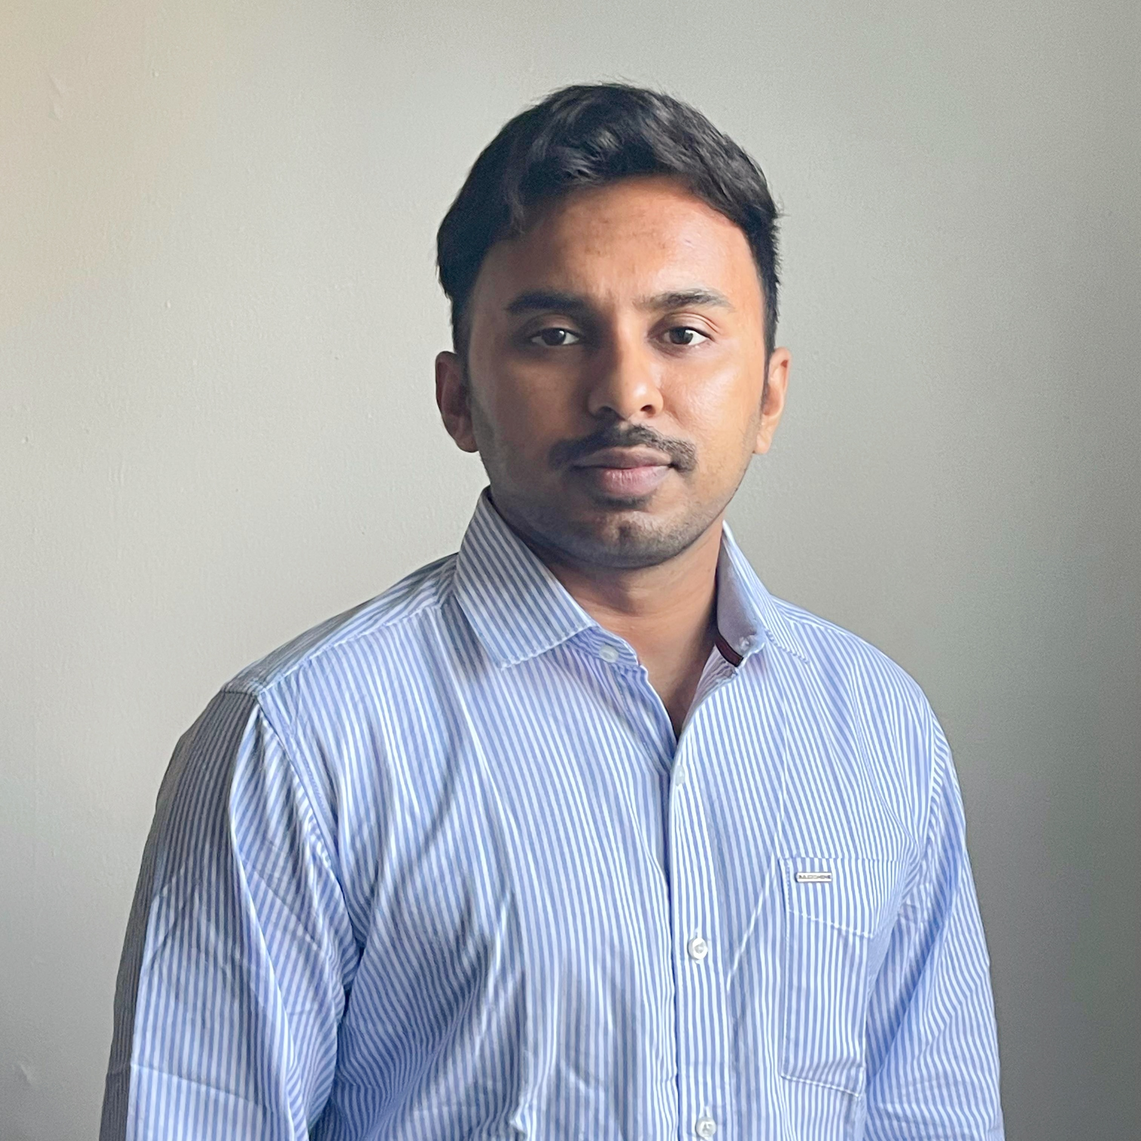
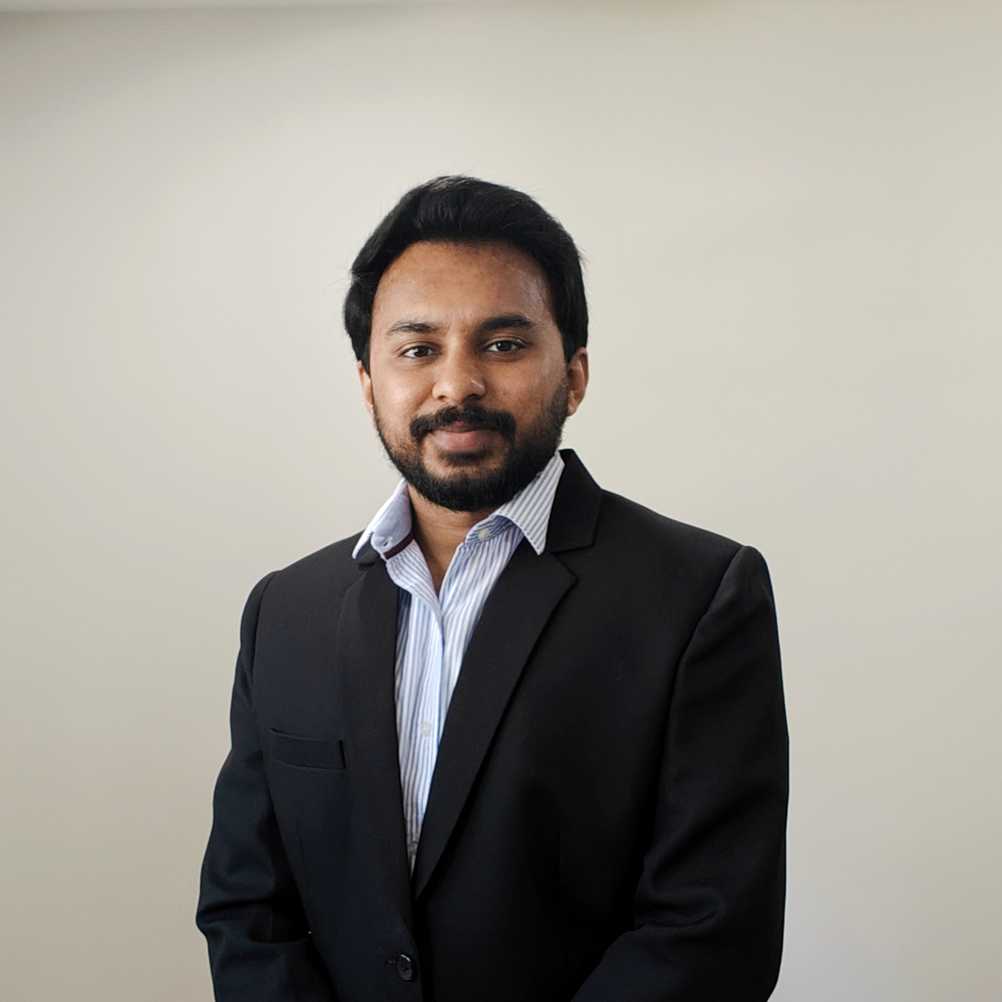
switch headline font to Roboto Serif

diff --git a/src/App.jsx b/src/App.jsx
@@ -1,6 +1,15 @@
 import { useState, useEffect } from "react";
-import { Mail, Linkedin, Github, ExternalLink, X, GraduationCap, Award, Play, Youtube, FileText, MapPin, ArrowUpRight, MessageCircle } from "lucide-react";
+import { Mail, Linkedin, Github, ExternalLink, X, GraduationCap, Award, Play, Youtube, FileText, MapPin, ArrowUpRight } from "lucide-react";
 import profileImg from "./assets/profile.jpg";
+
+/* Discord logo (lucide has no official Discord icon) */
+function DiscordIcon({ size = 19 }) {
+  return (
+    <svg width={size} height={size} viewBox="0 0 24 24" fill="currentColor" aria-hidden="true">
+      <path d="M20.317 4.369a19.79 19.79 0 0 0-4.885-1.515.074.074 0 0 0-.079.037c-.211.375-.445.865-.608 1.25a18.27 18.27 0 0 0-5.487 0 12.64 12.64 0 0 0-.617-1.25.077.077 0 0 0-.079-.037A19.736 19.736 0 0 0 3.677 4.37a.07.07 0 0 0-.032.027C.533 9.046-.32 13.58.099 18.057a.082.082 0 0 0 .031.057 19.9 19.9 0 0 0 5.993 3.03.078.078 0 0 0 .084-.028c.462-.63.874-1.295 1.226-1.994a.076.076 0 0 0-.041-.106 13.1 13.1 0 0 1-1.872-.892.077.077 0 0 1-.008-.128c.126-.094.252-.192.372-.291a.074.074 0 0 1 .077-.01c3.928 1.793 8.18 1.793 12.062 0a.074.074 0 0 1 .078.009c.12.099.246.198.373.292a.077.077 0 0 1-.006.127 12.3 12.3 0 0 1-1.873.891.077.077 0 0 0-.041.107c.36.698.772 1.362 1.225 1.993a.076.076 0 0 0 .084.028 19.84 19.84 0 0 0 6.002-3.03.077.077 0 0 0 .032-.056c.5-5.177-.838-9.674-3.549-13.66a.061.061 0 0 0-.031-.028zM8.02 15.331c-1.182 0-2.157-1.085-2.157-2.419 0-1.333.956-2.418 2.157-2.418 1.21 0 2.176 1.094 2.157 2.418 0 1.334-.956 2.419-2.157 2.419zm7.975 0c-1.183 0-2.157-1.085-2.157-2.419 0-1.333.955-2.418 2.157-2.418 1.21 0 2.176 1.094 2.157 2.418 0 1.334-.946 2.419-2.157 2.419z" />
+    </svg>
+  );
+}
 
 /* ═══════════════════════════════════════════════════════════
    HOOKS & SMALL COMPONENTS
@@ -70,7 +79,7 @@ const PROJECTS = [
     title: "TurtleBot4 Real-Time Perception Pipeline",
     blurb: "A native ROS 2 vision-control layer running four perception tasks at once on-robot — scanline path following, SIFT/FLANN logo detection, optical-flow collision stops, and Hough horizon tracking — all in classical CV to stay inside the control loop.",
     stack: ["ROS 2", "TurtleBot4", "SIFT Matching", "Optical Flow", "OpenCV"],
-    category: "Autonomous Systems",
+    category: "Perception & Vision",
     featured: true,
     metric: "4 tasks · on-robot",
     github: "https://github.com/ravivkrahul/turtlebot4-perception-pipeline",
@@ -159,7 +168,7 @@ const PROJECTS = [
     title: "ResNet18 Arrow Direction Regression",
     blurb: "A navigation network that moved from classical thresholding to deep learning — a ResNet18 transfer-learning model regressing continuous steering angles, deployed for live inference on Raspberry Pi hardware.",
     stack: ["PyTorch", "Transfer Learning", "ResNet18", "Raspberry Pi"],
-    category: "Autonomous Systems",
+    category: "Perception & Vision",
     github: "https://github.com/ravivkrahul/ResNet18-Arrow-Direction-Regression",
   },
   {
@@ -167,6 +176,99 @@ const PROJECTS = [
     blurb: "An Arduino Mega station that reads soil, temperature, and light, actuates solenoid valves on thresholds, and streams live telemetry to ThingSpeak over ESP8266 — a self-running irrigation controller.",
     stack: ["Arduino", "ESP8266", "IoT", "ThingSpeak"],
     category: "Classical & Industrial Controls",
+  },
+
+  /* ── KRIBHCO INDUSTRIAL (2018–2025) ── */
+  {
+    title: "Air Dryer Unit — Control Panel Redesign & Commissioning",
+    blurb: "Redesigned and built an in-house control panel that replaced a worn bistable relay and mechanical timer with PLC ladder logic — preserving proven operator behavior while removing the mechanical failure points. Executed a single-day cutover inside the 8-hour maintenance window with zero production loss.",
+    stack: ["Siemens PLC", "TIA Portal", "Ladder Logic", "Panel Design", "Commissioning"],
+    category: "Industrial Automation",
+    metric: "Single-day cutover",
+    details: {
+      scope: "Complete redesign and in-house construction of a control panel to eliminate mechanical failure points in the air dryer regeneration system.",
+      sections: [
+        { h: "Challenge", b: "The original panel relied on two degraded mechanical components. A bistable relay served as the mode selector between Dryer A ↔ Dryer B regeneration and inline bypass — its worn cam mechanism caused poor contact, elevated resistance, and erratic false mode transitions. A mechanical timer controlled the 5-hour heating and 3-hour cooling regeneration cycles; worn gears caused timing drift and unpredictable execution. The deteriorated panel made preventive maintenance risky and prompted a full replacement." },
+        { h: "Solution", b: "Designed and built a new panel in-house that preserved the proven relay-based control logic (and operator familiarity), eliminated the bistable relay and timer by implementing their functionality in an integrated PLC, and consolidated all logic into a single maintainable platform." },
+        { h: "Execution", b: "Documented the exact relay switching sequence and timer cycle with operators and maintenance staff; redrew complete electrical documentation in Microsoft Visio. Designed the layout and supervised in-house construction, integrating temperature sensors, flow sensors, control valves, and solenoid valves with organized terminal blocks. Verified the new logic operated identically to the original before commissioning, coordinating cutover with Mechanical, Electrical, Production, and Civil teams." },
+        { h: "Commissioning & Cutover", b: "Executed a single-day cutover: shut down the compressor, de-energized and disconnected the old panel (fully documented), rewired to the new panel, powered up, tested, and handed over — all within the scheduled 8-hour maintenance window." },
+        { h: "Outcome", b: "Transitioned from legacy mechanical control to modern PLC logic with no production loss, eliminated failures from worn relay contacts and timer degradation, and delivered a maintainable system operators could run reliably." },
+      ],
+      stack: "Siemens PLC · TIA Portal (ladder logic) · Microsoft Visio · Temperature/flow sensors · Control & solenoid valves",
+    },
+  },
+  {
+    title: "Pump Torque-Converter Speed Control Modernization",
+    blurb: "Consolidated a legacy two-stage cascade controller into the Honeywell C300 DCS, replaced an obsolete speed sensor with a Pepperl+Fuchs unit on a custom-fabricated mount, and performed online PID retuning of both level and speed loops during shutdown at near-normal operating conditions.",
+    stack: ["Honeywell DCS", "Cascade PID", "Pepperl+Fuchs", "Online Tuning"],
+    category: "Industrial Automation",
+    metric: "Dual-loop consolidation",
+    details: {
+      scope: "Upgrade a 30-year-old pump control system to consolidate dual cascade controllers into a single DCS platform with modern sensor technology.",
+      sections: [
+        { h: "Challenge", b: "The system used a two-stage cascade design: a level controller in the DCS output a setpoint to a local speed controller in the pump's original panel. No spare parts existed for the obsolete local controller, and the worn speed sensor had no available equivalent — failure of either meant production stoppage with no repair path." },
+        { h: "Solution", b: "Consolidated both cascade controllers into the DCS to eliminate dependence on the obsolete local panel, replaced the speed sensor with a modern Pepperl+Fuchs unit, redesigned the sensor mounting with the fabrication team, and retraced and reconfigured all wiring for the new architecture." },
+        { h: "Execution", b: "Selected the Pepperl+Fuchs sensor and built a custom mounting bracket integrating it with the existing pump structure. Developed the secondary speed-controller logic inside the Honeywell C300 DCS, configuring level (primary) → speed (secondary) cascade PID modules while preserving all legacy safety interlocks and pre-start conditions. Installed new multicore cable from the DCS to the legacy panel and updated all terminal routing." },
+        { h: "Commissioning & PID Tuning", b: "Brought the system online with production during annual shutdown, held process conditions near normal operating parameters, and performed online PID retuning of both level and speed loops under realistic dynamics — validating stability across the operating range." },
+        { h: "Outcome", b: "Eliminated single points of failure from obsolete hardware, created a sustainable vendor-standard solution, and tuned the system to run reliably at actual operating conditions with no permanent downtime." },
+      ],
+      stack: "Honeywell Experion PKS C300 DCS · Pepperl+Fuchs speed sensor · Cascade PID loops · Fabrication support",
+    },
+  },
+  {
+    title: "DCS & Safety System Management — 4000+ Loops",
+    blurb: "Ran day-to-day operations of a Honeywell Experion PKS C300 DCS and Safety Manager ESD supporting 4000+ control loops: RAID5 storage administration, backup and disaster-recovery validation, safety-interlock verification, one-to-one station redundancy, and plant-trip root-cause analysis for operators.",
+    stack: ["Honeywell C300", "Safety Manager ESD", "RAID5", "Trip Analysis"],
+    category: "Industrial Automation",
+    metric: "99.5%+ availability",
+    details: {
+      scope: "Manage and maintain Honeywell Experion PKS C300 DCS infrastructure and the Safety Manager ESD system supporting 4000+ control loops across plant operations.",
+      sections: [
+        { h: "System Architecture", b: "A primary C300 DCS server on RAID5 storage drove 4000+ process loops across fertilizer units, air handling, compressor control, pump speed, temperature/pressure, and level systems. Multiple operator and engineering stations connected over the plant network, with spare station/server configurations maintained for one-to-one replacement, plus a Safety Manager ESD for safety-critical interlocks." },
+        { h: "DCS & RAID5 Administration", b: "Continuously monitored server performance and availability, managed user access across stations, ran routine backups to RAID5, validated data integrity and disaster recovery, and monitored disk-array health — performing drive replacements as needed to maintain redundancy." },
+        { h: "Safety Manager (ESD)", b: "Verified Emergency Shut Down function and interlock operation, monitored safety diagnostics for faults or degradation, ensured safety-critical loops maintained proper response times, and ran periodic safety-system tests and validation." },
+        { h: "Trip Analysis & Troubleshooting", b: "On plant trips, checked interlocks and identified root causes — distinguishing safety-system function, process upset, or instrumentation anomaly — and gave operators clear root-cause analysis to speed recovery. Resolved DCS server, station-connectivity, and loop-performance issues with minimal production impact." },
+        { h: "Outcome", b: "Maintained 99.5%+ DCS availability across 4000+ loops, kept the ESD system operational, protected data integrity via RAID5 and backups, and supported continuous plant operation without critical outages." },
+      ],
+      stack: "Honeywell Experion PKS C300 DCS · Safety Manager ESD · RAID5 storage · Distributed client-server architecture · 4000+ loops",
+    },
+  },
+  {
+    title: "Cracker Unit — 72-Channel Temperature System Upgrade",
+    blurb: "Replaced an aged 72-channel temperature scanner with modern instrumentation: 72 new K-type thermocouples in Inconel thermowells, a signal-conditioning junction box, full rewiring with shielding, and per-channel simulation plus high/low alarm testing across all 72 measurement points.",
+    stack: ["Thermocouples", "Inconel Thermowells", "Signal Conditioning", "Alarm Testing"],
+    category: "Industrial Automation",
+    metric: "72 channels verified",
+    details: {
+      scope: "Replace an aged 72-channel temperature scanner and upgrade the temperature measurement system across the cracker unit with modern instrumentation.",
+      sections: [
+        { h: "Challenge", b: "The original 72-channel scanner had aged and become unreliable. Multiple K-type thermocouple elements needed replacement, temperature measurement was critical to operation and product quality, and the signal-conditioning and junction-box infrastructure required an upgrade — with all 72 channels needing reconfiguration and alarm testing." },
+        { h: "Mechanical Coordination", b: "Coordinated with the mechanical team to fabricate small thermowells on the pipeline, sized to the new element dimensions and validated for proper thermal contact and sensor protection." },
+        { h: "Scanner & Element Replacement", b: "Procured a modern 72-channel scanner, 72 high-temperature K-type thermocouples, Inconel thermowells for durability, and a junction box with signal conditioning and reference-junction compensation. Installed all hardware and connected each element to its scanner channel." },
+        { h: "Rewiring & Configuration", b: "Performed complete rewiring of all 72 channels with proper shielding and grounding, configuring each channel's sensor type, temperature range, alarm setpoints, and data-logging parameters — with clear labeling and documentation." },
+        { h: "Simulation & Alarm Testing", b: "Ran temperature simulation on each of the 72 channels, verified scanner response across the operating range, tested every high/low alarm, confirmed setpoints triggered at design temperatures, and validated data logging — documenting results for all channels." },
+        { h: "Outcome", b: "Restored reliable, accurate temperature measurement across cracker operations with improved alarm functionality and full visibility into the temperature profile — all 72 channels verified operational." },
+      ],
+      stack: "72-channel scanner · K-type thermocouples · Inconel thermowells · Signal-conditioning junction box · Shielded wiring · Simulation & alarm testing",
+    },
+  },
+  {
+    title: "Compressor Panel — Isolator Replacement & Loop Verification",
+    blurb: "Documented and replaced aged AI/AO/DI/DO isolators in a compressor control panel with matched Pepperl+Fuchs equivalents during annual shutdown, then verified signal integrity end-to-end across all 60 control loops from field transmitter through panel to final element.",
+    stack: ["Pepperl+Fuchs Isolators", "Loop Verification", "24VDC", "Shutdown Execution"],
+    category: "Industrial Automation",
+    metric: "60 loops verified",
+    details: {
+      scope: "Replace aged isolators in a compressor control panel with modern equivalents and verify integrity across all 60 dependent control loops.",
+      sections: [
+        { h: "Challenge", b: "The panel's isolators had aged and were no longer reliable or readily available as spares. Multiple types (AI, AO, DI, DO) supported 60 control loops critical to compressor operation, and replacement had to happen during annual shutdown to minimize production impact." },
+        { h: "Documentation & Procurement", b: "Conducted a full documentation review of every installed isolator, capturing electrical specs and functionality, and built a matched replacement list from the Pepperl+Fuchs catalog — including single-input/double-output configurations — selected for drop-in compatibility." },
+        { h: "Replacement", b: "During shutdown, systematically removed all aged isolators and installed new Pepperl+Fuchs units in identical positions to preserve circuit configuration, verifying proper seating and electrical contact." },
+        { h: "Wiring & Loop Verification", b: "Wired with printed ferrules and terminal lugs for reliable connections, then verified all 60 loops — confirming signal continuity from field transmitters through the panel to control valves, testing each loop for correct transmission and response, and confirming no signal degradation." },
+        { h: "Outcome", b: "Restored reliable signal isolation across all 60 loops, verified complete signal-chain integrity, eliminated isolator-failure risk, and extended panel service life — all within the annual shutdown window with no production impact." },
+      ],
+      stack: "Pepperl+Fuchs isolators (AI/AO/DI/DO) · 24VDC supply · Printed ferrules & terminal lugs · Loop verification procedures",
+    },
   },
 ];
 
@@ -197,7 +299,9 @@ const COURSEWORK = [
 
 const CAT = {
   "Autonomous Systems": { label: "Autonomous", tint: "var(--sage)", soft: "var(--sage-soft)" },
+  "Perception & Vision": { label: "Computer Vision", tint: "var(--plum)", soft: "var(--plum-soft)" },
   "Classical & Industrial Controls": { label: "Controls", tint: "var(--slate)", soft: "var(--slate-soft)" },
+  "Industrial Automation": { label: "Industrial", tint: "var(--accent)", soft: "var(--accent-soft)" },
 };
 
 const NAV = [["work", "Work"], ["path", "Experience"], ["credentials", "Credentials"]];
@@ -206,7 +310,41 @@ const NAV = [["work", "Work"], ["path", "Experience"], ["credentials", "Credenti
    PROJECT CARD
 ═══════════════════════════════════════════════════════════ */
 
-function ProjectCard({ p, onPlay }) {
+function DetailModal({ project, onClose }) {
+  useEffect(() => {
+    const onKey = (e) => { if (e.key === "Escape") onClose(); };
+    document.addEventListener("keydown", onKey);
+    document.body.style.overflow = "hidden";
+    return () => { document.removeEventListener("keydown", onKey); document.body.style.overflow = ""; };
+  }, [onClose]);
+  const d = project.details;
+  const meta = CAT[project.category] || {};
+  return (
+    <div className="modal-backdrop" onMouseDown={(e) => { if (e.target === e.currentTarget) onClose(); }}>
+      <div className="detail-box" onMouseDown={(e) => e.stopPropagation()} style={{ "--tint": meta.tint, "--soft": meta.soft }}>
+        <div className="detail-head">
+          <div>
+            <span className="detail-cat">{meta.label}</span>
+            <h3>{project.title}</h3>
+          </div>
+          <button onClick={onClose} aria-label="Close"><X size={18} /></button>
+        </div>
+        <div className="detail-body">
+          {d.scope && <p className="detail-scope"><span>Scope</span>{d.scope}</p>}
+          {d.sections.map((s, i) => (
+            <div key={i} className="detail-sec">
+              <h4>{s.h}</h4>
+              <p>{s.b}</p>
+            </div>
+          ))}
+          {d.stack && <div className="detail-stack"><span>Stack</span>{d.stack}</div>}
+        </div>
+      </div>
+    </div>
+  );
+}
+
+function ProjectCard({ p, onPlay, onDetails }) {
   const meta = CAT[p.category] || {};
   return (
     <article className={`card ${p.featured ? "card-feat" : ""}`} style={{ "--tint": meta.tint, "--soft": meta.soft }}>
@@ -225,6 +363,7 @@ function ProjectCard({ p, onPlay }) {
         {p.videoUrl && <a href={p.videoUrl} target="_blank" rel="noopener noreferrer" className="clink accent"><Play size={12} fill="currentColor" /> Demo</a>}
         {p.youtube && <a href={p.youtube} target="_blank" rel="noopener noreferrer" className="clink yt"><Youtube size={14} fill="currentColor" /> YouTube</a>}
         {p.pdf && <a href={`${BASE}${p.pdf}`} target="_blank" rel="noopener noreferrer" className="clink"><FileText size={14} /> Report</a>}
+        {p.details && <button onClick={() => onDetails(p)} className="clink accent"><FileText size={14} /> View details</button>}
       </div>
     </article>
   );
@@ -238,6 +377,7 @@ export default function App() {
   const typed = useTyped(["Robotics & Controls Engineer", "Industrial Automation Specialist", "ROS 2 · C++ · Python · MATLAB", "M.Eng. Robotics @ UMD"]);
   const [filter, setFilter] = useState("All");
   const [modalVideo, setModalVideo] = useState(null);
+  const [detailProject, setDetailProject] = useState(null);
   const [active, setActive] = useState("work");
   const [copied, setCopied] = useState("");
   const [photoOpen, setPhotoOpen] = useState(false);
@@ -266,6 +406,8 @@ export default function App() {
   const counts = {
     All: PROJECTS.length,
     "Autonomous Systems": PROJECTS.filter(p => p.category === "Autonomous Systems").length,
+    "Perception & Vision": PROJECTS.filter(p => p.category === "Perception & Vision").length,
+    "Industrial Automation": PROJECTS.filter(p => p.category === "Industrial Automation").length,
     "Classical & Industrial Controls": PROJECTS.filter(p => p.category === "Classical & Industrial Controls").length,
   };
   const shown = PROJECTS.filter(p => filter === "All" || p.category === filter);
@@ -285,7 +427,7 @@ export default function App() {
           <div className="typed">{typed}<span className="cursor" /></div>
           <p className="tagline">
             Six years tuning safety-critical industrial control systems — now widening my
-            expertise into Robotics, Computer Vision, ML, and Industrial AI through an M.Eng.
+            expertise into robotics, computer vision, and industrial AI/ML through an M.Eng.
             at the University of Maryland, College Park.
           </p>
 
@@ -295,7 +437,7 @@ export default function App() {
             <button onClick={() => copyText("ravivk.rahul@gmail.com", "Email copied — ravivk.rahul@gmail.com")} className="soc" aria-label="Copy email"><Mail size={19} /></button>
             <a href="https://www.linkedin.com/in/rahulravivk/" target="_blank" rel="noopener noreferrer" className="soc" aria-label="LinkedIn"><Linkedin size={19} /></a>
             <a href="https://github.com/ravivkrahul" target="_blank" rel="noopener noreferrer" className="soc" aria-label="GitHub"><Github size={19} /></a>
-            <button onClick={() => copyText("abhyutthanam", "Discord copied — abhyutthanam")} className="soc" aria-label="Copy Discord username"><MessageCircle size={19} /></button>
+            <button onClick={() => copyText("abhyutthanam", "Discord copied — abhyutthanam")} className="soc" aria-label="Copy Discord username"><DiscordIcon /></button>
           </div>
           {copied && <div className="copied-toast">{copied}</div>}
 
@@ -330,7 +472,7 @@ export default function App() {
           </header>
 
           <div className="filters">
-            {["All", "Autonomous Systems", "Classical & Industrial Controls"].map(f => (
+            {["All", "Autonomous Systems", "Perception & Vision", "Industrial Automation", "Classical & Industrial Controls"].map(f => (
               <button key={f} className={`fbtn ${filter === f ? "on" : ""}`} onClick={() => setFilter(f)}>
                 {f === "All" ? "All" : CAT[f].label}
                 <span className="fcount">{counts[f]}</span>
@@ -339,7 +481,7 @@ export default function App() {
           </div>
 
           <div className="grid">
-            {shown.map((p, i) => <ProjectCard key={i} p={p} onPlay={setModalVideo} />)}
+            {shown.map((p, i) => <ProjectCard key={i} p={p} onPlay={setModalVideo} onDetails={setDetailProject} />)}
           </div>
         </section>
 
@@ -406,6 +548,7 @@ export default function App() {
       </main>
 
       {modalVideo && <VideoModal videoSrc={modalVideo} onClose={() => setModalVideo(null)} />}
+      {detailProject && <DetailModal project={detailProject} onClose={() => setDetailProject(null)} />}
 
       {photoOpen && (
         <div className="photo-backdrop" onClick={() => setPhotoOpen(false)}>
@@ -422,7 +565,7 @@ export default function App() {
 ═══════════════════════════════════════════════════════════ */
 
 const CSS = `
-@import url('https://fonts.googleapis.com/css2?family=Fraunces:opsz,wght@9..144,400;9..144,500;9..144,600&family=Inter:wght@400;500;600;700&family=JetBrains+Mono:wght@400;500&display=swap');
+@import url('https://fonts.googleapis.com/css2?family=Roboto+Serif:opsz,wght@8..144,400;8..144,500;8..144,600&family=Inter:wght@400;500;600;700&family=JetBrains+Mono:wght@400;500&display=swap');
 
 :root{
   --paper:#fcfbf8;
@@ -440,7 +583,9 @@ const CSS = `
   --sage-soft:#e9f0ea;
   --slate:#5a6b8c;
   --slate-soft:#eaeef4;
-  --serif:'Fraunces',Georgia,serif;
+  --plum:#7a5a78;
+  --plum-soft:#f0eaf0;
+  --serif:'Roboto Serif',Georgia,serif;
   --sans:'Inter',system-ui,sans-serif;
   --mono:'JetBrains Mono',monospace;
 }
@@ -599,6 +744,28 @@ button{font-family:inherit;cursor:pointer;border:none;background:none;}
 .modal-header button:hover{color:var(--ink);}
 .modal-video{aspect-ratio:16/9;background:#000;}
 .modal-video iframe{width:100%;height:100%;border:none;}
+
+/* detail modal */
+.detail-box{width:100%;max-width:720px;max-height:88vh;background:var(--card);border-radius:16px;
+  overflow:hidden;display:flex;flex-direction:column;box-shadow:0 30px 70px rgba(0,0,0,0.3);animation:fade .2s ease;}
+.detail-head{display:flex;align-items:flex-start;justify-content:space-between;gap:20px;padding:26px 30px;
+  border-bottom:1px solid var(--line);background:var(--soft);}
+.detail-cat{display:inline-block;font-family:var(--mono);font-size:10.5px;letter-spacing:0.06em;text-transform:uppercase;
+  font-weight:600;color:var(--tint);margin-bottom:10px;}
+.detail-head h3{font-family:var(--serif);font-size:1.4rem;font-weight:500;letter-spacing:-0.01em;line-height:1.25;}
+.detail-head button{color:var(--ink3);display:flex;flex-shrink:0;margin-top:2px;}
+.detail-head button:hover{color:var(--ink);}
+.detail-body{padding:26px 30px 32px;overflow-y:auto;}
+.detail-scope{font-size:14.5px;line-height:1.6;color:var(--ink);margin-bottom:26px;padding:16px 18px;
+  background:var(--paper2);border-radius:10px;border-left:3px solid var(--tint);}
+.detail-scope span{display:block;font-family:var(--mono);font-size:10.5px;letter-spacing:0.08em;text-transform:uppercase;
+  color:var(--tint);margin-bottom:7px;font-weight:600;}
+.detail-sec{margin-bottom:22px;}
+.detail-sec h4{font-size:14px;font-weight:600;color:var(--ink);margin-bottom:7px;letter-spacing:-0.01em;}
+.detail-sec p{font-size:14px;line-height:1.7;color:var(--ink2);}
+.detail-stack{margin-top:6px;padding-top:20px;border-top:1px solid var(--line);font-size:13px;line-height:1.6;color:var(--ink2);}
+.detail-stack span{display:block;font-family:var(--mono);font-size:10.5px;letter-spacing:0.08em;text-transform:uppercase;
+  color:var(--tint);margin-bottom:7px;font-weight:600;}
 
 /* photo lightbox */
 .photo-backdrop{position:fixed;inset:0;z-index:600;background:rgba(33,31,27,0.7);backdrop-filter:blur(6px);
